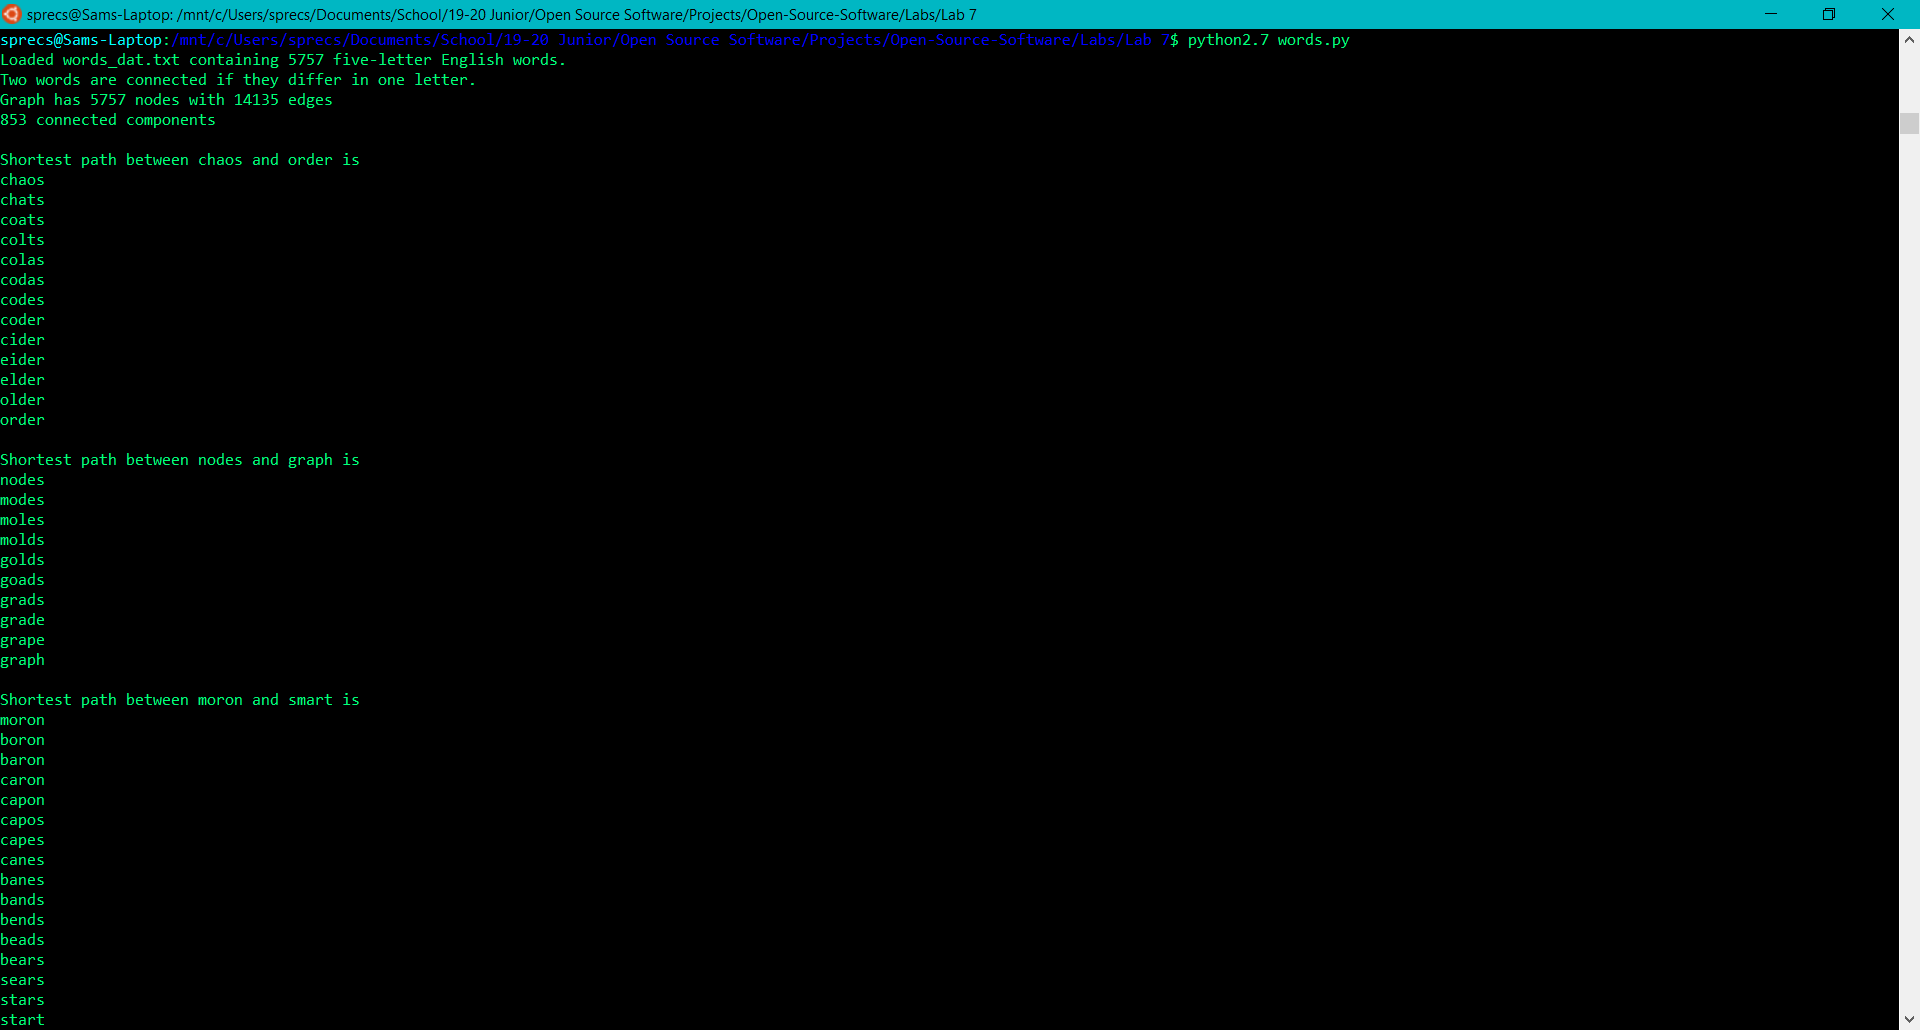
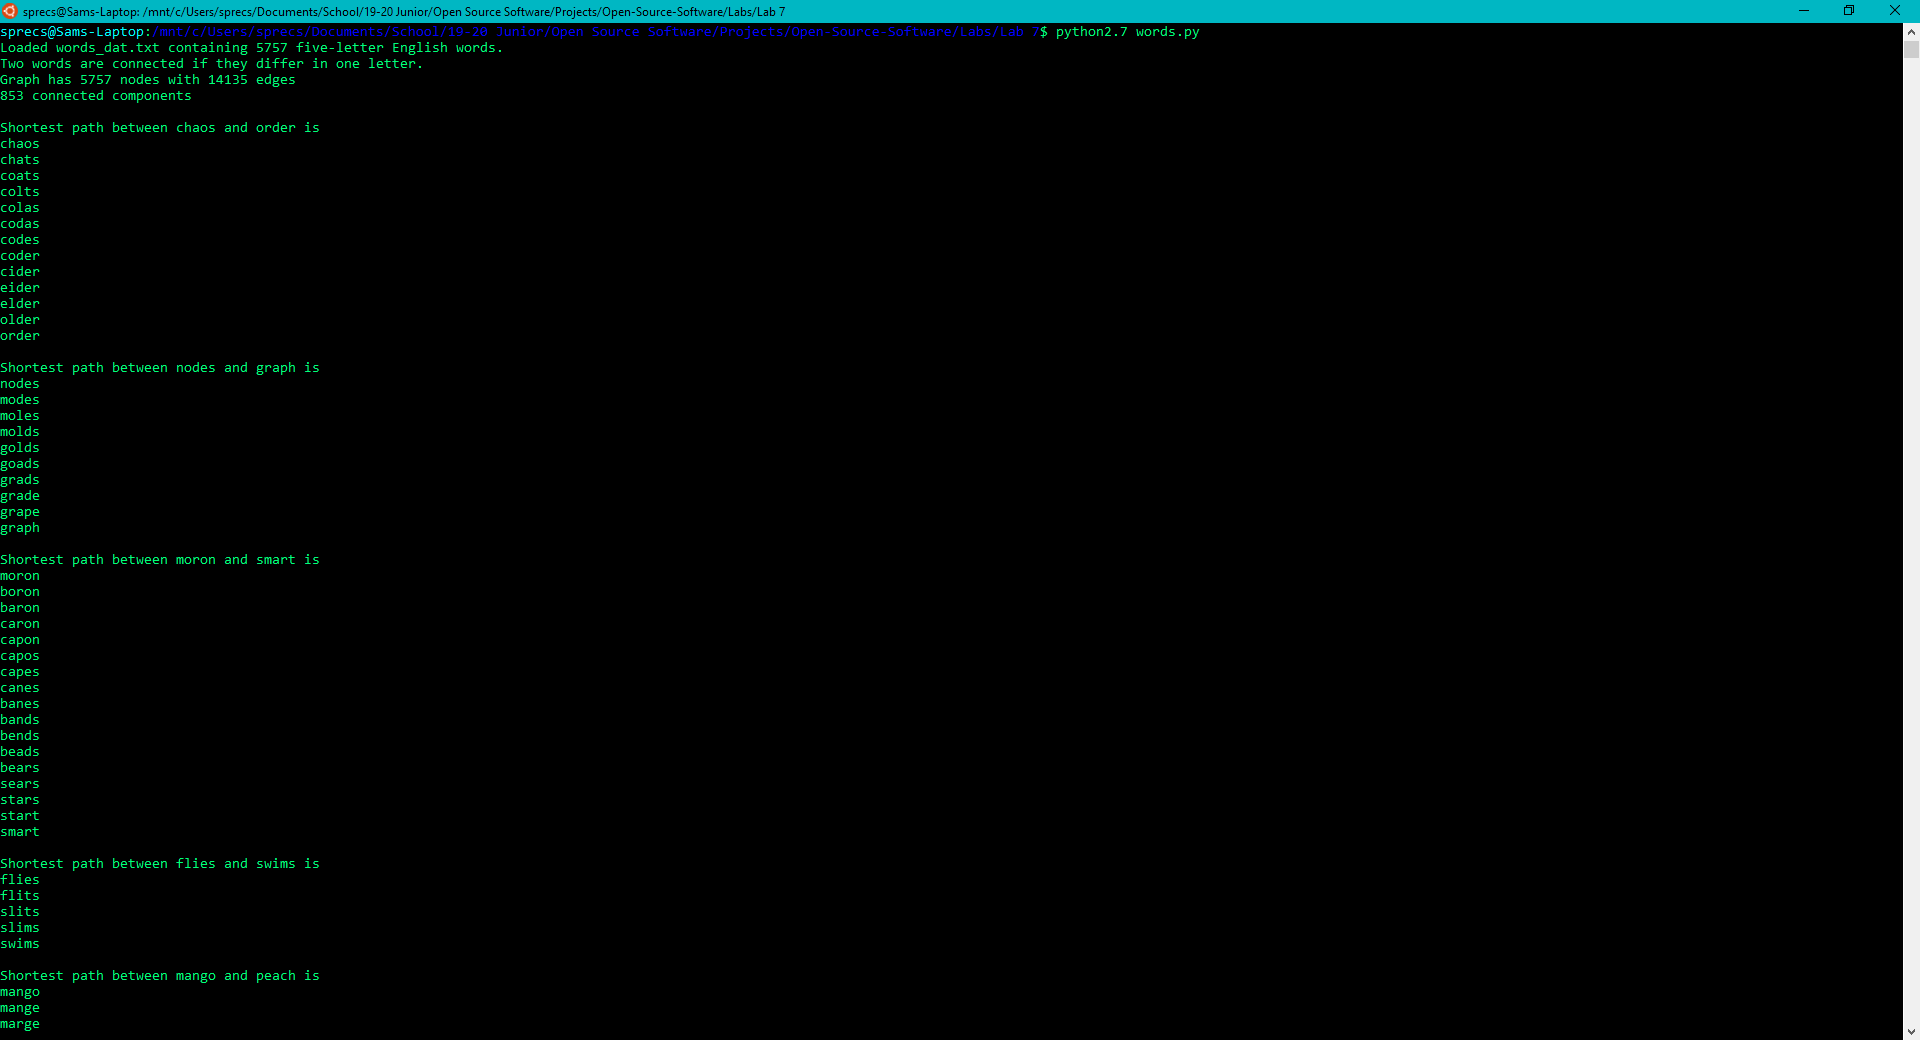
Updated Exs 1 and 2

Changed region(s): [[0.0, 0.0, 1.0, 0.9942], [0.9688, 0.0932, 1.0, 0.1553]]

diff --git a/Labs/Lab 7/words.py b/Labs/Lab 7/words.py
@@ -81,6 +81,8 @@ if __name__ == '__main__':
     for (source, target) in [('chaos', 'order'),
                              ('nodes', 'graph'),
                              ('moron', 'smart'),
+                             ('flies', 'swims'),
+                             ('mango', 'peach'),
                              ('pound', 'marks')]:
         print("\nShortest path between %s and %s is" % (source, target))
         try:
@@ -91,7 +93,10 @@ if __name__ == '__main__':
             print("None")
 
     # for (source, target) in [('cold', 'warm'),
-    #                          ('love', 'hate')]:
+    #                          ('love', 'hate'),
+    #                          ('good', 'evil'),
+    #                          ('pear', 'beef'),
+    #                          ('make', 'take')]:
     #     print("\nShortest path between %s and %s is" % (source, target))
     #     try:
     #         sp = nx.shortest_path(G, source, target)
